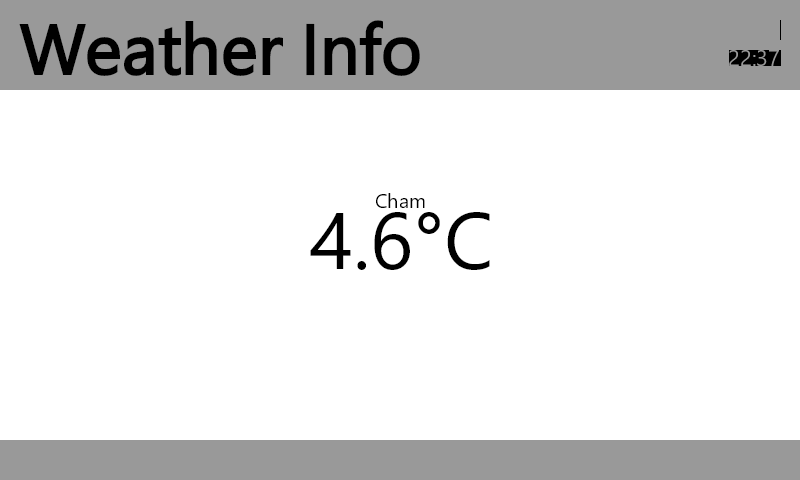
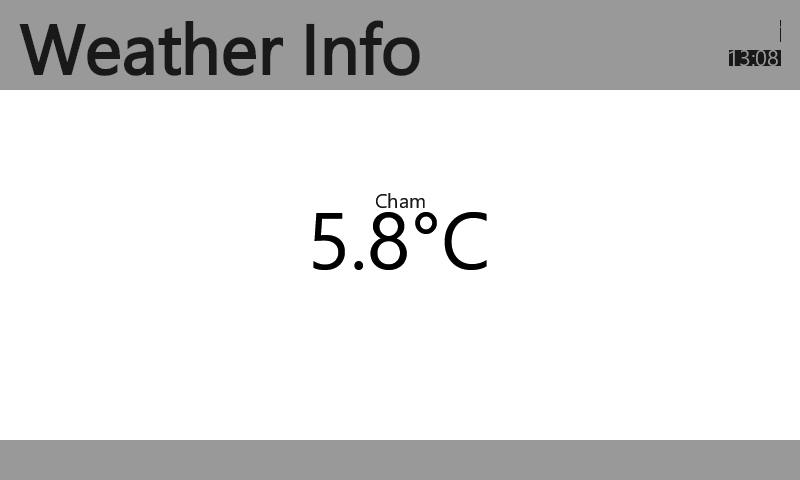
Add unit tests for DisplayManager and weather specific rendering

Changed region(s): [[0.0312, 0.0312, 0.5312, 0.1562], [0.375, 0.4062, 0.625, 0.5625], [0.9062, 0.0938, 1.0, 0.1562]]

diff --git a/Tests/WeatherDisplay.Tests/Services/DisplayManagerTests.cs b/Tests/WeatherDisplay.Tests/Services/DisplayManagerTests.cs
@@ -1,0 +1,82 @@
+using System.Collections.Generic;
+using DisplayService.Services;
+using DisplayService.Settings;
+using DisplayService.Tests.Services;
+using Moq;
+using Moq.AutoMock;
+using SkiaSharp;
+using WeatherDisplay.Model;
+using WeatherDisplay.Model.OpenWeatherMap;
+using WeatherDisplay.Services;
+using Xunit;
+using Xunit.Abstractions;
+
+namespace WeatherDisplay.Tests
+{
+    public class DisplayManagerTests
+    {
+        private readonly TestHelper testHelper;
+        private readonly AutoMocker autoMocker;
+        private readonly Mock<IAppSettings> appSettingsMock;
+
+        public DisplayManagerTests(ITestOutputHelper testOutputHelper)
+        {
+            this.testHelper = new TestHelper(testOutputHelper);
+            this.autoMocker = new AutoMocker();
+
+            this.appSettingsMock = this.autoMocker.GetMock<IAppSettings>();
+            this.appSettingsMock.SetupGet(r => r.Title)
+                .Returns("Test");
+            this.appSettingsMock.SetupGet(r => r.Places)
+                .Returns(new List<Place> { new Place { Name = "Test Place", Longitude = 1d, Latitude = 2d } });
+
+            var renderSettingsMock = this.autoMocker.GetMock<IRenderSettings>();
+            renderSettingsMock.SetupGet(r => r.Height)
+                .Returns(480);
+            renderSettingsMock.SetupGet(r => r.Width)
+                .Returns(800);
+            renderSettingsMock.SetupGet(r => r.BackgroundColor)
+                .Returns(SKColors.White.ToString());
+
+            this.autoMocker.Use<IRenderService>(this.autoMocker.CreateInstance<RenderService>());
+        }
+
+        [Fact]
+        public void ShouldRenderWeatherActions()
+        {
+            // Arrange
+            var openWeatherMapServiceMock = this.autoMocker.GetMock<IOpenWeatherMapService>();
+            openWeatherMapServiceMock.SetupSequence(w => w.GetWeatherInfoAsync(It.IsAny<double>(), It.IsAny<double>()))
+                .ReturnsAsync(new WeatherResponse { LocationName = "Test Location", Temperature = 1.2f, UnitSystem = "metric" })
+                .ReturnsAsync(new WeatherResponse { LocationName = "Test Location", Temperature = 12.34f, UnitSystem = "metric" })
+                .ReturnsAsync(new WeatherResponse { LocationName = "Test Location", Temperature = 123.456f, UnitSystem = "metric" })
+                .ReturnsAsync(new WeatherResponse { LocationName = "Test Location", Temperature = 12.34f, UnitSystem = "metric" })
+                .ReturnsAsync(new WeatherResponse { LocationName = "Test Location", Temperature = 1.2f, UnitSystem = "metric" })
+                ;
+
+            var testDisplay = new TestDisplay(800, 480);
+            this.autoMocker.Use<IDisplay>(testDisplay);
+
+            var timerMocks = new List<Mock<ITimerService>>();
+            var timerServiceFactoryMock = this.autoMocker.GetMock<ITimerServiceFactory>();
+            timerServiceFactoryMock.Setup(f => f.Create())
+                .Returns(() => { var mock = new Mock<ITimerService>(); timerMocks.Add(mock); return mock.Object; });
+
+            IDisplayManager displayManager = this.autoMocker.CreateInstance<DisplayManager>();
+            displayManager.AddWeatherRenderActions(openWeatherMapServiceMock.Object, this.appSettingsMock.Object);
+            displayManager.StartAsync();
+
+            // Act
+            timerMocks.ForEach((t) => t.Raise(t => t.Elapsed += null, new TimerElapsedEventArgs()));
+            timerMocks.ForEach((t) => t.Raise(t => t.Elapsed += null, new TimerElapsedEventArgs()));
+            timerMocks.ForEach((t) => t.Raise(t => t.Elapsed += null, new TimerElapsedEventArgs()));
+            timerMocks.ForEach((t) => t.Raise(t => t.Elapsed += null, new TimerElapsedEventArgs()));
+
+            // Assert
+            openWeatherMapServiceMock.Verify(w => w.GetWeatherInfoAsync(It.IsAny<double>(), It.IsAny<double>()), Times.Exactly(5));
+
+            var bitmapStream = testDisplay.GetDisplayImage();
+            this.testHelper.WriteFile(bitmapStream);
+        }
+    }
+}

diff --git a/WeatherDisplay/WeatherDisplayRendering.cs b/WeatherDisplay/WeatherDisplayRendering.cs
@@ -48,15 +48,15 @@ namespace WeatherDisplay
             displayManager.AddRenderActions(
                 () =>
                 {
-                    var dateTimeNow = DateTime.Now;
+                    var dateTimeNow = DateTime.Now; // TODO: Replace with IDateTime
                     return new List<IRenderAction>
                     {
-                        new RenderActions.Rectangle
+                        new RenderActions.Rectangle // Masking layer for Date
                         {
                             X = 780,
                             Y = 19,
                             Height = 25,
-                            Width = 300,
+                            Width = 200,
                             VerticalAlignment = VerticalAlignment.Top,
                             HorizontalAlignment = HorizontalAlignment.Right,
                             BackgroundColor = "#999999",
@@ -79,15 +79,15 @@ namespace WeatherDisplay
             displayManager.AddRenderActions(
                 () =>
                 {
-                    var dateTimeNow = DateTime.Now;
+                    var dateTimeNow = DateTime.Now; // TODO: Replace with IDateTime
                     return new List<IRenderAction>
                     {
-                        new RenderActions.Rectangle
+                        new RenderActions.Rectangle // Masking layer for Time
                         {
                             X = 780,
-                            Y = 19,
+                            Y = 50,
                             Height = 25,
-                            Width = 300,
+                            Width = 200,
                             VerticalAlignment = VerticalAlignment.Top,
                             HorizontalAlignment = HorizontalAlignment.Right,
                             BackgroundColor = "#999999",
@@ -115,6 +115,16 @@ namespace WeatherDisplay
 
                     return new List<IRenderAction>
                     {
+                        new RenderActions.Rectangle // Masking layer for Location+Temperature
+                        {
+                            X = 400,
+                            Y = 250,
+                            Height = 150,
+                            Width = 300,
+                            VerticalAlignment = VerticalAlignment.Center,
+                            HorizontalAlignment = HorizontalAlignment.Center,
+                            BackgroundColor = "#FFFFFF",
+                        },
                         new RenderActions.Text
                         {
                             X = 400,
@@ -123,7 +133,7 @@ namespace WeatherDisplay
                             VerticalTextAlignment = VerticalAlignment.Center,
                             Value = $"{place.Name ?? weatherResponse.LocationName}",
                             ForegroundColor = "#191919",
-                            BackgroundColor = "#00FFFFFF",
+                            BackgroundColor = "#FFFFFF",
                             FontSize = 20,
                         },
                         new RenderActions.Text
@@ -134,7 +144,7 @@ namespace WeatherDisplay
                             VerticalTextAlignment = VerticalAlignment.Center,
                             Value = FormatTemperature(weatherResponse),
                             ForegroundColor = "#000000",
-                            BackgroundColor = "#00FFFFFF",
+                            BackgroundColor = "#FFFFFF",
                             FontSize = 80,
                         }
                     };

diff --git a/DisplayService/Services/DisplayManager.cs b/DisplayService/Services/DisplayManager.cs
@@ -15,12 +15,14 @@ namespace DisplayService.Services
         private readonly ICacheService cacheService;
         private readonly IRenderService renderService;
         private readonly IDisplay display;
+        private readonly ITimerServiceFactory timerServiceFactory;
         private bool disposed;
 
-        public DisplayManager(ILogger<DisplayManager> logger, IRenderService renderService, IDisplay display)
+        public DisplayManager(ILogger<DisplayManager> logger, IRenderService renderService, IDisplay display, ITimerServiceFactory timerServiceFactory)
         {
             this.logger = logger;
             this.display = display;
+            this.timerServiceFactory = timerServiceFactory;
             this.cacheService = new CacheService();
             this.renderService = renderService;
         }
@@ -64,17 +66,15 @@ namespace DisplayService.Services
 
             if (updateInterval is TimeSpan updateIntervalValue && updateIntervalValue > TimeSpan.Zero)
             {
-                updateTimer = new TimerService
-                {
-                    Interval = updateIntervalValue,
-                };
+                updateTimer = this.timerServiceFactory.Create();
+                updateTimer.Interval = updateIntervalValue;
                 updateTimer.Elapsed += this.OnUpdateTimerElapsed;
             }
 
             return updateTimer;
         }
 
-        private async void OnUpdateTimerElapsed(object sender, ElapsedEventArgs e)
+        private async void OnUpdateTimerElapsed(object sender, TimerElapsedEventArgs e)
         {
             try
             {
@@ -120,7 +120,7 @@ namespace DisplayService.Services
                 var bitmapStream = this.renderService.GetScreen(); // TODO: Use using/Dispose
                 this.display.DisplayImage(bitmapStream);
                 this.cacheService.SaveToCache(bitmapStream);
-                bitmapStream.Close(); // TODO Remove?
+                bitmapStream.Close();
                 bitmapStream.Dispose();
             }
             catch (Exception ex)

diff --git a/Tests/WeatherDisplay.Tests/Services/TestDisplay.cs b/Tests/WeatherDisplay.Tests/Services/TestDisplay.cs
@@ -1,0 +1,45 @@
+using System.IO;
+using DisplayService.Services;
+
+namespace WeatherDisplay.Tests
+{
+    public class TestDisplay : IDisplay
+    {
+        private Stream bitmapStream;
+
+        public TestDisplay(int width, int height)
+        {
+            this.Width = width;
+            this.Height = height;
+        }
+
+        public int Width { get; }
+
+        public int Height { get; }
+
+        public void Clear()
+        {
+            this.bitmapStream = null;
+        }
+
+        public void DisplayImage(Stream bitmapStream)
+        {
+            var memoryStream = new MemoryStream();
+            bitmapStream.CopyTo(memoryStream);
+            bitmapStream.Position = 0;
+
+            this.bitmapStream = memoryStream;
+        }
+
+        public void Dispose()
+        {
+            this.bitmapStream = null;
+        }
+
+        public Stream GetDisplayImage()
+        {
+            this.bitmapStream.Position = 0;
+            return this.bitmapStream;
+        }
+    }
+}

diff --git a/DisplayService/Services/TimerService.cs b/DisplayService/Services/TimerService.cs
@@ -11,7 +11,7 @@ namespace DisplayService.Services
         private DateTime dueTime;
         private bool disposed = false;
 
-        public event ElapsedEventHandler Elapsed;
+        public event EventHandler<TimerElapsedEventArgs> Elapsed;
         //{
         //    add { timer.Elapsed += value; }
         //    remove { timer.Elapsed -= value; }
@@ -124,9 +124,9 @@ namespace DisplayService.Services
             this.dueTime = now.AddMilliseconds(next);
         }
 
-        private void ElapsedAction(object sender, ElapsedEventArgs e)
+        private void ElapsedAction(object sender, System.Timers.ElapsedEventArgs e)
         {
-            this.Elapsed?.Invoke(this, e);
+            this.Elapsed?.Invoke(this, new TimerElapsedEventArgs(e.SignalTime));
 
             if (this.timer.AutoReset) // TODO: Always!?
             {

diff --git a/WeatherDisplay/Extensions/ServiceCollectionExtensions.cs b/WeatherDisplay/Extensions/ServiceCollectionExtensions.cs
@@ -57,7 +57,8 @@ namespace WeatherDisplay
 
             // Register services
             services.AddSingleton<IAppSettings>(appSettings);
-            services.AddSingleton<IRenderService, RenderService>();
+            services.AddSingleton<ITimerServiceFactory, TimerServiceFactory>(); // TODO Move to separate ServiceCollectionExtensions
+            services.AddSingleton<IRenderService, RenderService>(); // TODO Move to separate ServiceCollectionExtensions
             services.AddSingleton<IRenderSettings>(renderSettings);
             services.AddSingleton<IDisplay>(display);
             services.AddSingleton<IDisplayManager, DisplayManager>();

diff --git a/DisplayService/Services/ITimerService.cs b/DisplayService/Services/ITimerService.cs
@@ -1,5 +1,4 @@
 using System;
-using System.Timers;
 
 namespace DisplayService.Services
 {
@@ -11,6 +10,20 @@ namespace DisplayService.Services
 
         void Stop();
 
-        event ElapsedEventHandler Elapsed;
+        event EventHandler<TimerElapsedEventArgs> Elapsed;
+    }
+
+    public class TimerElapsedEventArgs : EventArgs
+    {
+        public TimerElapsedEventArgs() : this(DateTime.Now)
+        {
+        }
+
+        public TimerElapsedEventArgs(DateTime signalTime)
+        {
+            this.SignalTime = signalTime;
+        }
+
+        public DateTime SignalTime { get; private set; }
     }
 }

diff --git a/DisplayService/Services/TimerServiceFactory.cs b/DisplayService/Services/TimerServiceFactory.cs
@@ -1,0 +1,10 @@
+namespace DisplayService.Services
+{
+    public class TimerServiceFactory : ITimerServiceFactory
+    {
+        public ITimerService Create()
+        {
+            return new TimerService();
+        }
+    }
+}

diff --git a/DisplayService/Services/ITimerServiceFactory.cs b/DisplayService/Services/ITimerServiceFactory.cs
@@ -1,0 +1,7 @@
+namespace DisplayService.Services
+{
+    public interface ITimerServiceFactory
+    {
+        ITimerService Create();
+    }
+}
